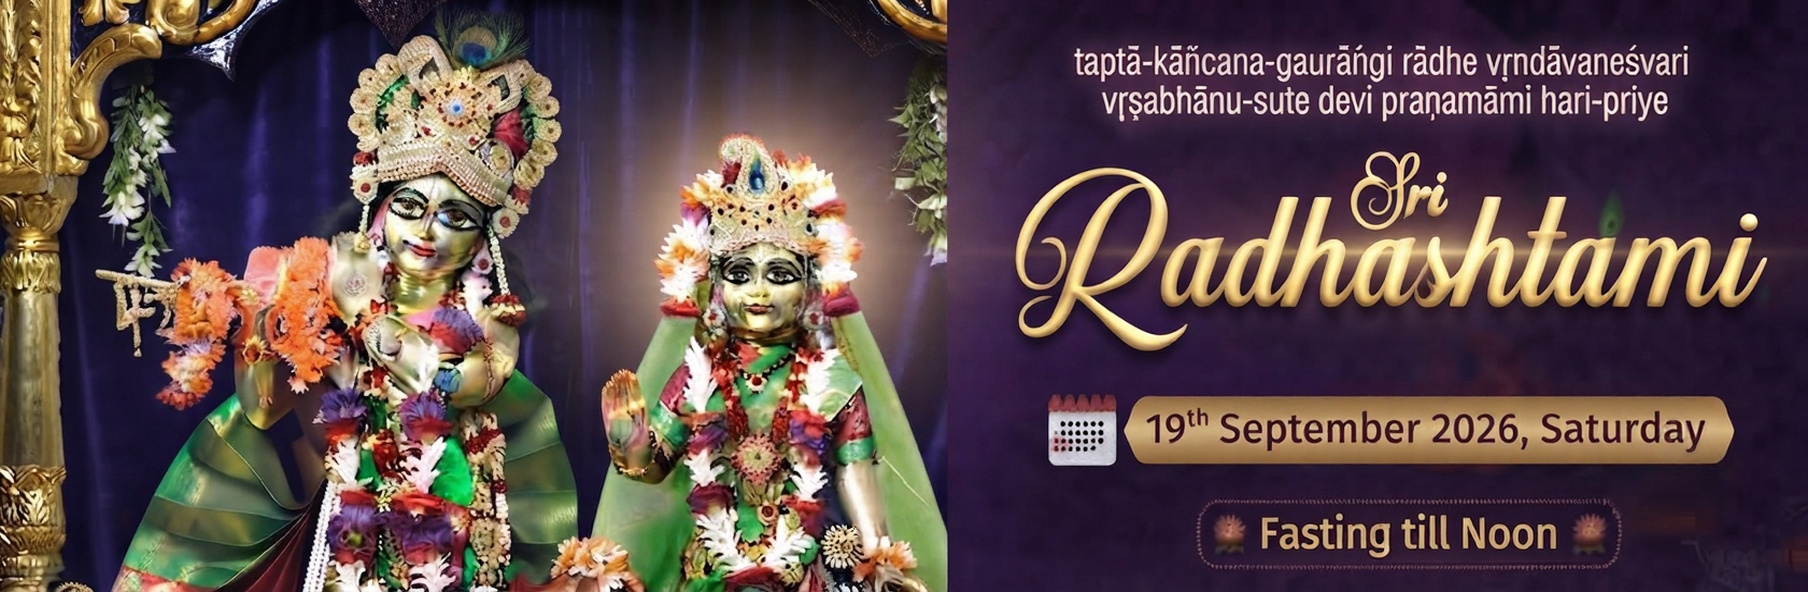
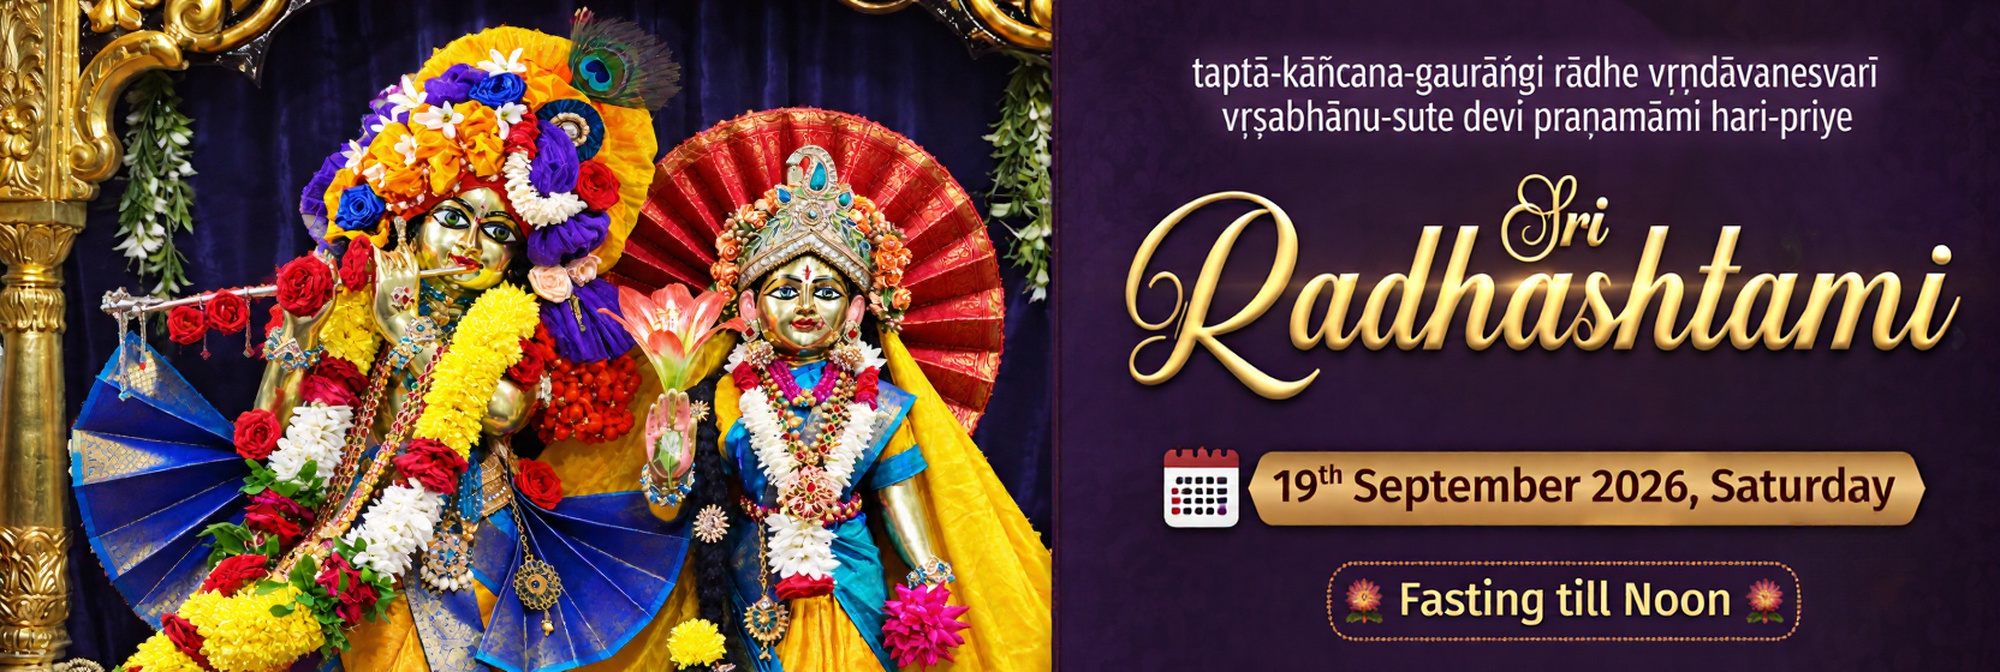
Radhashtami

diff --git a/src/app/radhashtami/page.jsx b/src/app/radhashtami/page.jsx
@@ -15,7 +15,7 @@ const DonationPage = () => {
     const { handleDonateClick } = useDonateTest();
 
   const sevaOptions = [
-    { title: "New Dress for Lordships", amount: 30000 },
+    { title: "New Deity Dress", amount: 30000 },
     { title: "250 Devotees Prasadam Seva", amount: 25116 },
     { title: "100 Devotees Prasadam Seva", amount: 10116 },
     { title: "60 Devotees Prasadam Seva", amount: 6116 },
@@ -24,6 +24,21 @@ const DonationPage = () => {
     { title: "Abhishekam Seva", amount: 3016 }, 
     { title: "Flower Decoration Seva", amount: 2116 }, 
   ];
+  const prasadamOptions = [
+    { title: "250 Devotees Prasadam Seva", amount: 25116 },
+    { title: "100 Devotees Prasadam Seva", amount: 10116 },
+    { title: "60 Devotees Prasadam Seva", amount: 6116 },
+    { title: "30 Devotees Prasadam Seva", amount: 3116 },
+    { title: "15 Devotees Prasadam Seva", amount: 1516 },
+  ];
+
+  const sponsorshipOptions = [
+    { title: "New Deity Dress", amount: 30000 },
+    { title: "Radhashtami Abhishekam Seva", amount: 3016 },
+    { title: "Flower Decoration Seva", amount: 2116 },
+  ];
+
+  const allSevas = [...prasadamOptions, ...sponsorshipOptions]; 
 
   const [selectedSevas, setSelectedSevas] = useState([]);
   const [customAmount, setCustomAmount] = useState('');
@@ -49,7 +64,7 @@ const DonationPage = () => {
     }
     const sevaNames = selectedSevas.map(s => s.title).join(", ");
     // alert(`Proceeding to donate ₹${finalTotal} for: ${sevaNames || 'Custom Donation'}!`);
-    handleDonateClick(finalTotal, "Radhashtami" + sevaNames || "Radhashtami Seva", "Radhashtami Seva");
+    handleDonateClick(finalTotal, "Radhashtami - " + sevaNames || "Radhashtami Seva", "Radhashtami Seva");
   };
 
   return (
@@ -85,52 +100,78 @@ const DonationPage = () => {
         </div>
 
         {/* Bottom Section: Multi-Select Seva Options */}
+        {/* Bottom Section: Categorized Multi-Select Seva Options */}
         <div className="donation-content-container">
           <div className="donation-header-wrapper">
-            <h1 className="donation-main-title">
-              Sri Radhashtami
-            </h1>
-            <span className="donation-subtitle">
-              Seva Opportunity
-            </span>
+            <span className="donation-subtitle">Seva Opportunity</span>
+            <h1 className="donation-main-title">Sri Radhashtami</h1>
             <p className="donation-blessing-text">
               Celebrate the divine appearance day with your generous contribution
             </p>
 
-            {/* Donation Form */}
             <form onSubmit={handleDonate} className="donation-form">
-              <label className="donation-label">
-                Select Festival Seva Options (Multi-Select)
-              </label>
               
-              {/* Seva Options Grid (No scrollbar, displays all neatly) */}
-              <div className="seva-options-grid">
-                {sevaOptions.map((seva, index) => {
-                  const isSelected = selectedSevas.some((item) => item.title === seva.title);
-                  return (
-                    <div
-                      key={index}
-                      onClick={() => handleSevaToggle(seva)}
-                      className={`seva-card ${isSelected ? 'active' : ''}`}
-                    >
-                      <div className="seva-info">
-                        <input
-                          type="checkbox"
-                          checked={isSelected}
-                          onChange={() => {}} // handled by parent div onClick
-                          className="seva-checkbox"
-                        />
-                        <span className="seva-title">{seva.title}</span>
+              
+
+              {/* Category 2: Event Sponsorship */}
+              <div className="seva-category-group">
+                <h3 className="category-header">Special Sponsorship Opportunities</h3>
+                <div className="seva-options-grid">
+                  {sponsorshipOptions.map((seva, index) => {
+                    const isSelected = selectedSevas.some((item) => item.title === seva.title);
+                    return (
+                      <div
+                        key={`sponsorship-${index}`}
+                        onClick={() => handleSevaToggle(seva)}
+                        className={`seva-card ${isSelected ? 'active' : ''}`}
+                      >
+                        <div className="seva-info">
+                          <input
+                            type="checkbox"
+                            checked={isSelected}
+                            onChange={() => {}}
+                            className="seva-checkbox"
+                          />
+                          <span className="seva-title">{seva.title}</span>
+                        </div>
+                        <span className="seva-amount">₹{seva.amount.toLocaleString()}</span>
                       </div>
-                      <span className="seva-amount">₹{seva.amount.toLocaleString()}</span>
-                    </div>
-                  );
-                })}
+                    );
+                  })}
+                </div>
+              </div>
+
+              {/* Category 1: Prasadam Seva */}
+              <div className="seva-category-group">
+                <h3 className="category-header">Prasadam Seva</h3>
+                <div className="seva-options-grid">
+                  {prasadamOptions.map((seva, index) => {
+                    const isSelected = selectedSevas.some((item) => item.title === seva.title);
+                    return (
+                      <div
+                        key={`prasadam-${index}`}
+                        onClick={() => handleSevaToggle(seva)}
+                        className={`seva-card ${isSelected ? 'active' : ''}`}
+                      >
+                        <div className="seva-info">
+                          <input
+                            type="checkbox"
+                            checked={isSelected}
+                            onChange={() => {}}
+                            className="seva-checkbox"
+                          />
+                          <span className="seva-title">{seva.title}</span>
+                        </div>
+                        <span className="seva-amount">₹{seva.amount.toLocaleString()}</span>
+                      </div>
+                    );
+                  })}
+                </div>
               </div>
 
               {/* Custom Amount Input */}
               <div className="custom-donation-section">
-                <span className="donation-subtext">Custom Donation: </span>
+                <span className="donation-subtext">custom Donation:</span>
                 <div className="donation-input-wrapper">
                   <span className="donation-currency-symbol">₹</span>
                   <input
@@ -144,15 +185,11 @@ const DonationPage = () => {
               </div>
 
               {/* Submit CTA Button */}
-              <button
-                type="submit"
-                className="donation-submit-btn"
-              >
+              <button type="submit" className="donation-submit-btn">
                 Contribute Now {finalTotal > 0 ? `(₹${finalTotal.toLocaleString()})` : ''}
               </button>
             </form>
           </div>
-
         </div>
 
       </div>

diff --git a/src/app/radhashtami/DonationPage.css b/src/app/radhashtami/DonationPage.css
@@ -23,9 +23,9 @@
 }
 
 .donation-image-container {
-    margin-top:30px;
+  margin-top:30px;
   width: 100%;
-  height: 40vh; /* 40% height on mobile */
+  height: 35vh; /* 40% height on mobile */
   position: relative;
 }
 
@@ -391,4 +391,36 @@
   align-items: center;
   justify-content: center;
   gap: 0.25rem;
+}
+
+.seva-category-group {
+  margin-bottom: 1.25rem;
+  text-align: left;
+}
+
+.category-header {
+  font-family: 'Cinzel', serif;
+  font-size: 0.95rem;
+  font-weight: 700;
+  color: #b45309;
+  margin-bottom: 0.5rem;
+  padding-bottom: 0.25rem;
+  border-bottom: 1px dashed #fde68a;
+  letter-spacing: 0.05em;
+  text-transform: uppercase;
+  text-align: center;
+}
+
+/* Ensure grid works cleanly inside sections */
+.seva-options-grid {
+  display: grid;
+  grid-template-columns: 1fr;
+  gap: 0.5rem;
+}
+
+@media (min-width: 768px) {
+  .seva-options-grid {
+    grid-template-columns: repeat(2, 1fr);
+    gap: 0.625rem;
+  }
 }
